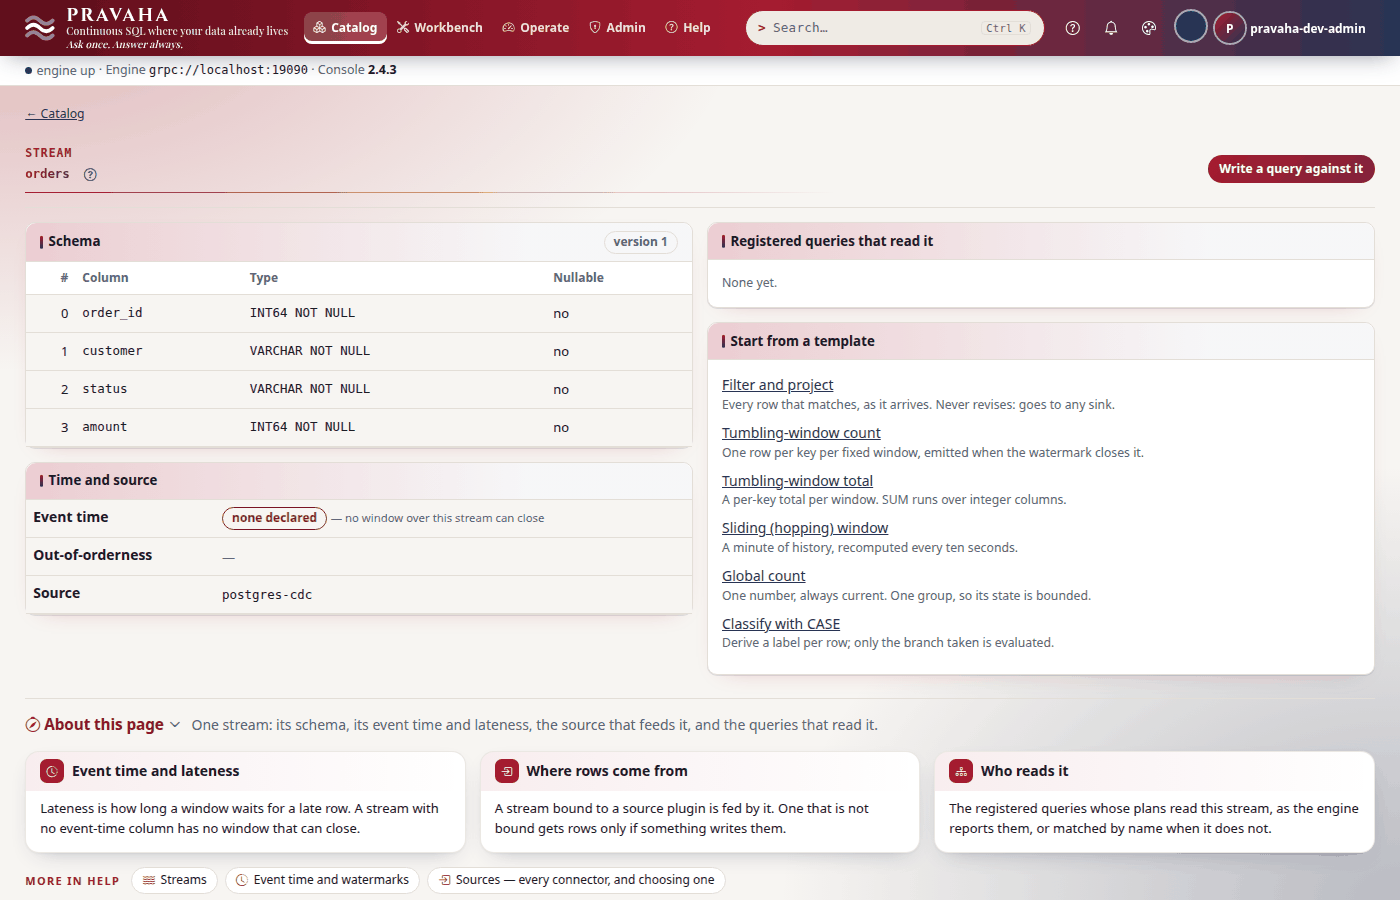
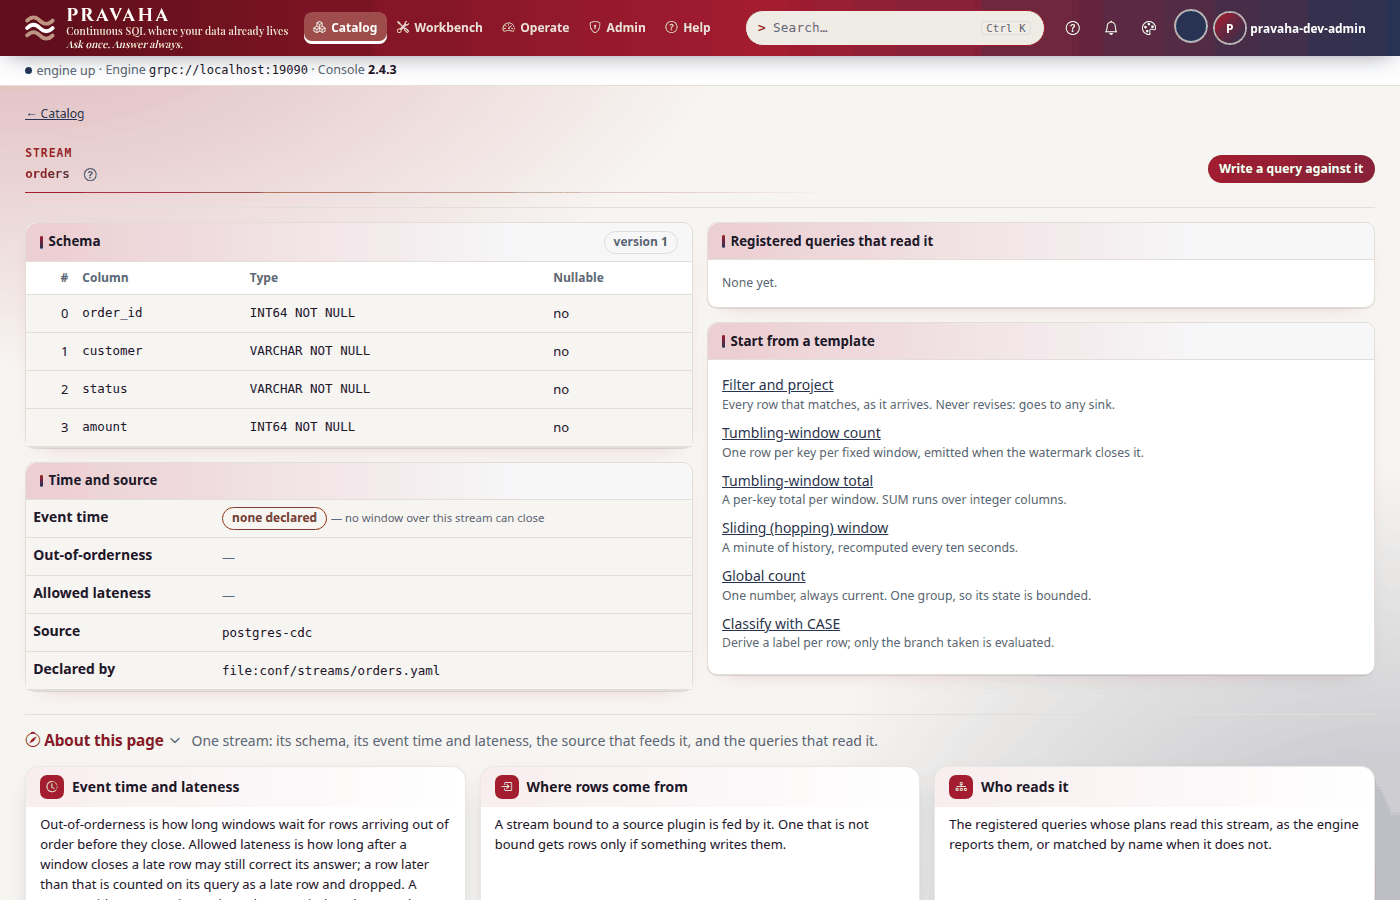
Tutorial 8: the postgres-cdc stream in conf/streams/, the database as a named connection; the MySQL binding as a stream file; the restart from the data folder; the stream page with its origin

Changed region(s): [[0.0, 0.6533, 0.9829, 1.0], [0.1536, 0.56, 0.215, 0.5911], [0.5836, 0.5289, 0.6143, 0.56]]

diff --git a/sdk/python/tools/tutorials/t08.py b/sdk/python/tools/tutorials/t08.py
@@ -22,6 +22,8 @@ POSTGRES = Container(
 )
 
 NODE = Node(config="t08/application.yaml", containers=(POSTGRES,), files=(
+    ("t08/streams", "conf/streams"),
+    ("t08/connectors", "conf/connectors"),
     ("t08/shop.sql", "shop.sql"),
     ("t08/open_orders.sql", "open_orders.sql"),
 ))

diff --git a/docs/tutorials/08-change-data-capture.md b/docs/tutorials/08-change-data-capture.md
@@ -22,8 +22,9 @@ slot keeps for it. Every output below was printed by a real node and a real data
   subscriptions and what a `−1` means to a reader.
 - Docker, for a PostgreSQL 14 or later. The tutorial's runs on `localhost:15432`, so that it is not a
   PostgreSQL of your own on 5432.
-- The tutorial's files, in [data/t08/](data/t08/): `application.yaml` (the `postgres-cdc` binding and
-  checkpoints every 10 seconds), `shop.sql` (the `orders` table and four orders) and `open_orders.sql`.
+- The tutorial's files, in [data/t08/](data/t08/): `streams/orders.yaml` (the `postgres-cdc` binding),
+  `connectors/shop-postgres.yaml` (the database, as a named connection), `application.yaml`
+  (checkpoints every 10 seconds), `shop.sql` (the `orders` table and four orders) and `open_orders.sql`.
 - A database with `wal_level = logical`, the table loaded, and a node home:
 
 ```bash
@@ -31,7 +32,7 @@ docker run -d --name pravaha-postgres -p 15432:5432 -e POSTGRES_HOST_AUTH_METHOD
   -e POSTGRES_DB=shop postgres:16-alpine -c wal_level=logical
 export PRAVAHA_HOME=$HOME/pravaha-t08
 mkdir -p $PRAVAHA_HOME/conf $PRAVAHA_HOME/data
-cp docs/tutorials/data/t08/application.yaml $PRAVAHA_HOME/conf/
+cp -r docs/tutorials/data/t08/{application.yaml,streams,connectors} $PRAVAHA_HOME/conf/
 cd docs/tutorials/data/t08
 ```
 
@@ -74,26 +75,40 @@ export PRAVAHA_TOKEN=$(pravaha login --user pravaha-dev-admin) PRAVAHA_INSECURE_
 
 ## Step 1 · Bind the table
 
+The database is a **named connection** — where it is and who the node is to it, written once for
+every table the node follows there — and the stream's file names it and says only what is its own:
+
 ```yaml
-# data/t08/application.yaml
+# conf/connectors/shop-postgres.yaml
+plugin: postgres-cdc
+options:
+  url: "jdbc:postgresql://localhost:15432/shop"
+  user: postgres                   # in production a REPLICATION role, password: "${PRAVAHA_CDC_PASSWORD}"
+```
+
+```yaml
+# conf/streams/orders.yaml
+schema: "order_id:INT64,customer:STRING,status:STRING,amount:INT64"
+source:
+  connector: shop-postgres
+  options:
+    table: public.orders
+    slot: pravaha_orders           # the replication slot: the database keeps WAL until it is confirmed
+    publication: pravaha_orders
+    snapshot.mode: initial         # the rows already there first (needs a primary key), then the changes
+```
+
+```yaml
+# conf/application.yaml
 pravaha:
-  streams:
-    orders:
-      schema: "order_id:INT64,customer:STRING,status:STRING,amount:INT64"
-  sources:
-    orders:
-      plugin: postgres-cdc
-      options:
-        url: "jdbc:postgresql://localhost:15432/shop"
-        user: postgres
-        table: public.orders
-        slot: pravaha_orders           # the replication slot: the database keeps WAL until it is confirmed
-        publication: pravaha_orders
-        snapshot.mode: initial         # the rows already there first (needs a primary key), then the changes
   checkpoint:
-    interval: 10s
+    interval: 10s                  # the slot is confirmed at checkpoints
     keep: 5
 ```
+
+A second table from the same database is one more file in `conf/streams/` naming `shop-postgres`, with
+its own `table`, `slot` and `publication`. A password in the connection is written `${ENV_NAME}`;
+a literal one is refused (`PRV-1063`).
 
 The stream's schema is checked against the table by name when the source opens — leave it out and it
 is read from the table. There is no event time: a change happens when its transaction **commits**, and
@@ -109,6 +124,8 @@ event time    -
 out of order  -
 lateness      -
 source        postgres-cdc
+origin        file:conf/streams/orders.yaml
+not applied   -
 
 ORDINAL  NAME      TYPE              NULLABLE
 0        order_id  INT64 NOT NULL    no
@@ -118,7 +135,7 @@ ORDINAL  NAME      TYPE              NULLABLE
 ```
 <!-- /capture -->
 
-![The Catalog page of the stream orders: four columns order_id, customer, status and amount, event time none declared so no window over this stream can close, and the source postgres-cdc; no registered query reads it yet](img/t08/01-stream.png)
+![The Catalog page of the stream orders: four columns order_id, customer, status and amount, event time none declared so no window over this stream can close, the source postgres-cdc and Declared by file:conf/streams/orders.yaml; no registered query reads it yet](img/t08/01-stream.png)
 
 You should see `source postgres-cdc` and the table's four columns.
 
@@ -410,7 +427,9 @@ feed         RUNNING
 ```
 <!-- /capture -->
 
-The node restored `open_orders` from its last checkpoint, and the source asked the slot for everything
+The node came back with `open_orders` registered — a node keeps its registry journal and checkpoints
+in its data folder (`$PRAVAHA_HOME/data` here, `./data` for a node with no home) unless told
+`pravaha.data.dir: none` — restored it from its last checkpoint, and the source asked the slot for everything
 after the position that checkpoint confirmed — dana's shipment among it — so the view lost nothing and
 counted nothing twice. The slot held the WAL while the node was down; that is its whole job, and also
 its cost: a node down for a week holds a week of WAL on the database. `pravaha.checkpoint` and
@@ -428,17 +447,17 @@ You should see dana's order 5 gone, and ann's three orders.
 `+1`, delete `−1`, update both — and no JDBC driver:
 
 ```yaml
-pravaha:
-  sources:
-    orders:
-      plugin: mysql-cdc
-      options:
-        host: db-1.internal
-        port: "3306"
-        user: pravaha_cdc
-        password: "${PRAVAHA_CDC_PASSWORD}"
-        table: shop.orders
-        server.id: "6401"              # the replica id: unique among the server's replicas
+# conf/streams/orders.yaml, from MySQL
+schema: "order_id:INT64,customer:STRING,status:STRING,amount:INT64"
+source:
+  plugin: mysql-cdc
+  options:
+    host: db-1.internal
+    port: "3306"
+    user: pravaha_cdc
+    password: "${PRAVAHA_CDC_PASSWORD}"
+    table: shop.orders
+    server.id: "6401"              # the replica id: unique among the server's replicas
 ```
 
 What differs: the server must log `binlog_format = ROW` and `binlog_row_image = FULL` (MySQL 8's
